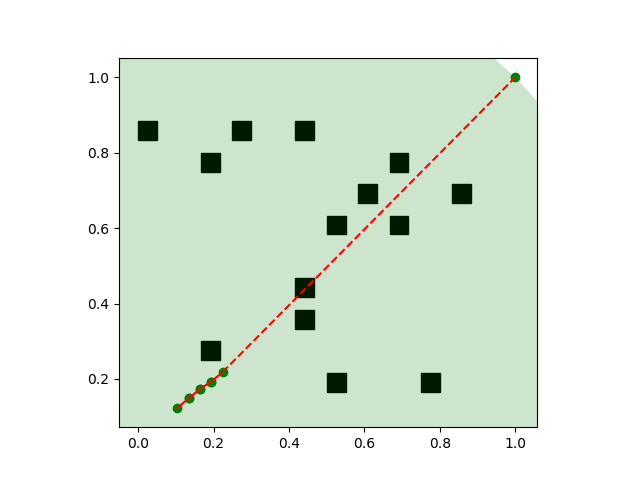
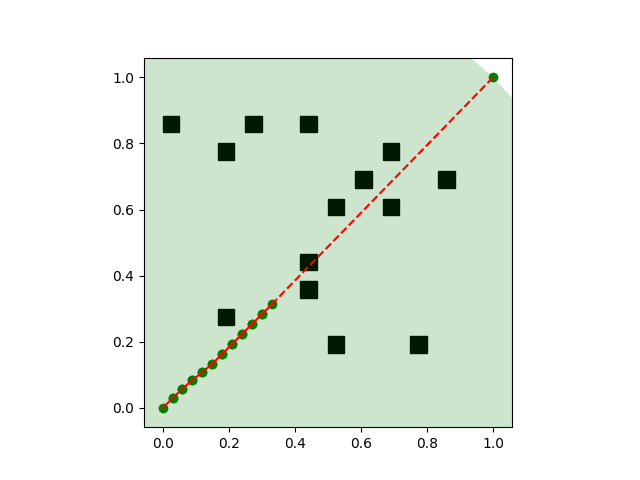
Seeding

diff --git a/build/classes/psulu/PuLPpSulu.py b/build/classes/psulu/PuLPpSulu.py
@@ -1,4 +1,4 @@
-#!/Users/Feng/anaconda/bin/python
+#!/usr/local/opt/anaconda/bin//python
 from __future__ import division
 import socket
 import matplotlib as M
@@ -1106,6 +1106,7 @@ def firstPassCommandLine():
 
 def main(inp, out):
     # Create IRA instance and solve it
+    np.random.seed(0)
     itrRA = IRA(inp)
     itrRA.solve()
     if itrRA.isFeasible():

diff --git a/src/psulu/PuLPpSulu.py b/src/psulu/PuLPpSulu.py
@@ -1,4 +1,4 @@
-#!/Users/Feng/anaconda/bin/python
+#!/usr/local/opt/anaconda/bin//python
 from __future__ import division
 import socket
 import matplotlib as M
@@ -1106,6 +1106,7 @@ def firstPassCommandLine():
 
 def main(inp, out):
     # Create IRA instance and solve it
+    np.random.seed(0)
     itrRA = IRA(inp)
     itrRA.solve()
     if itrRA.isFeasible():
